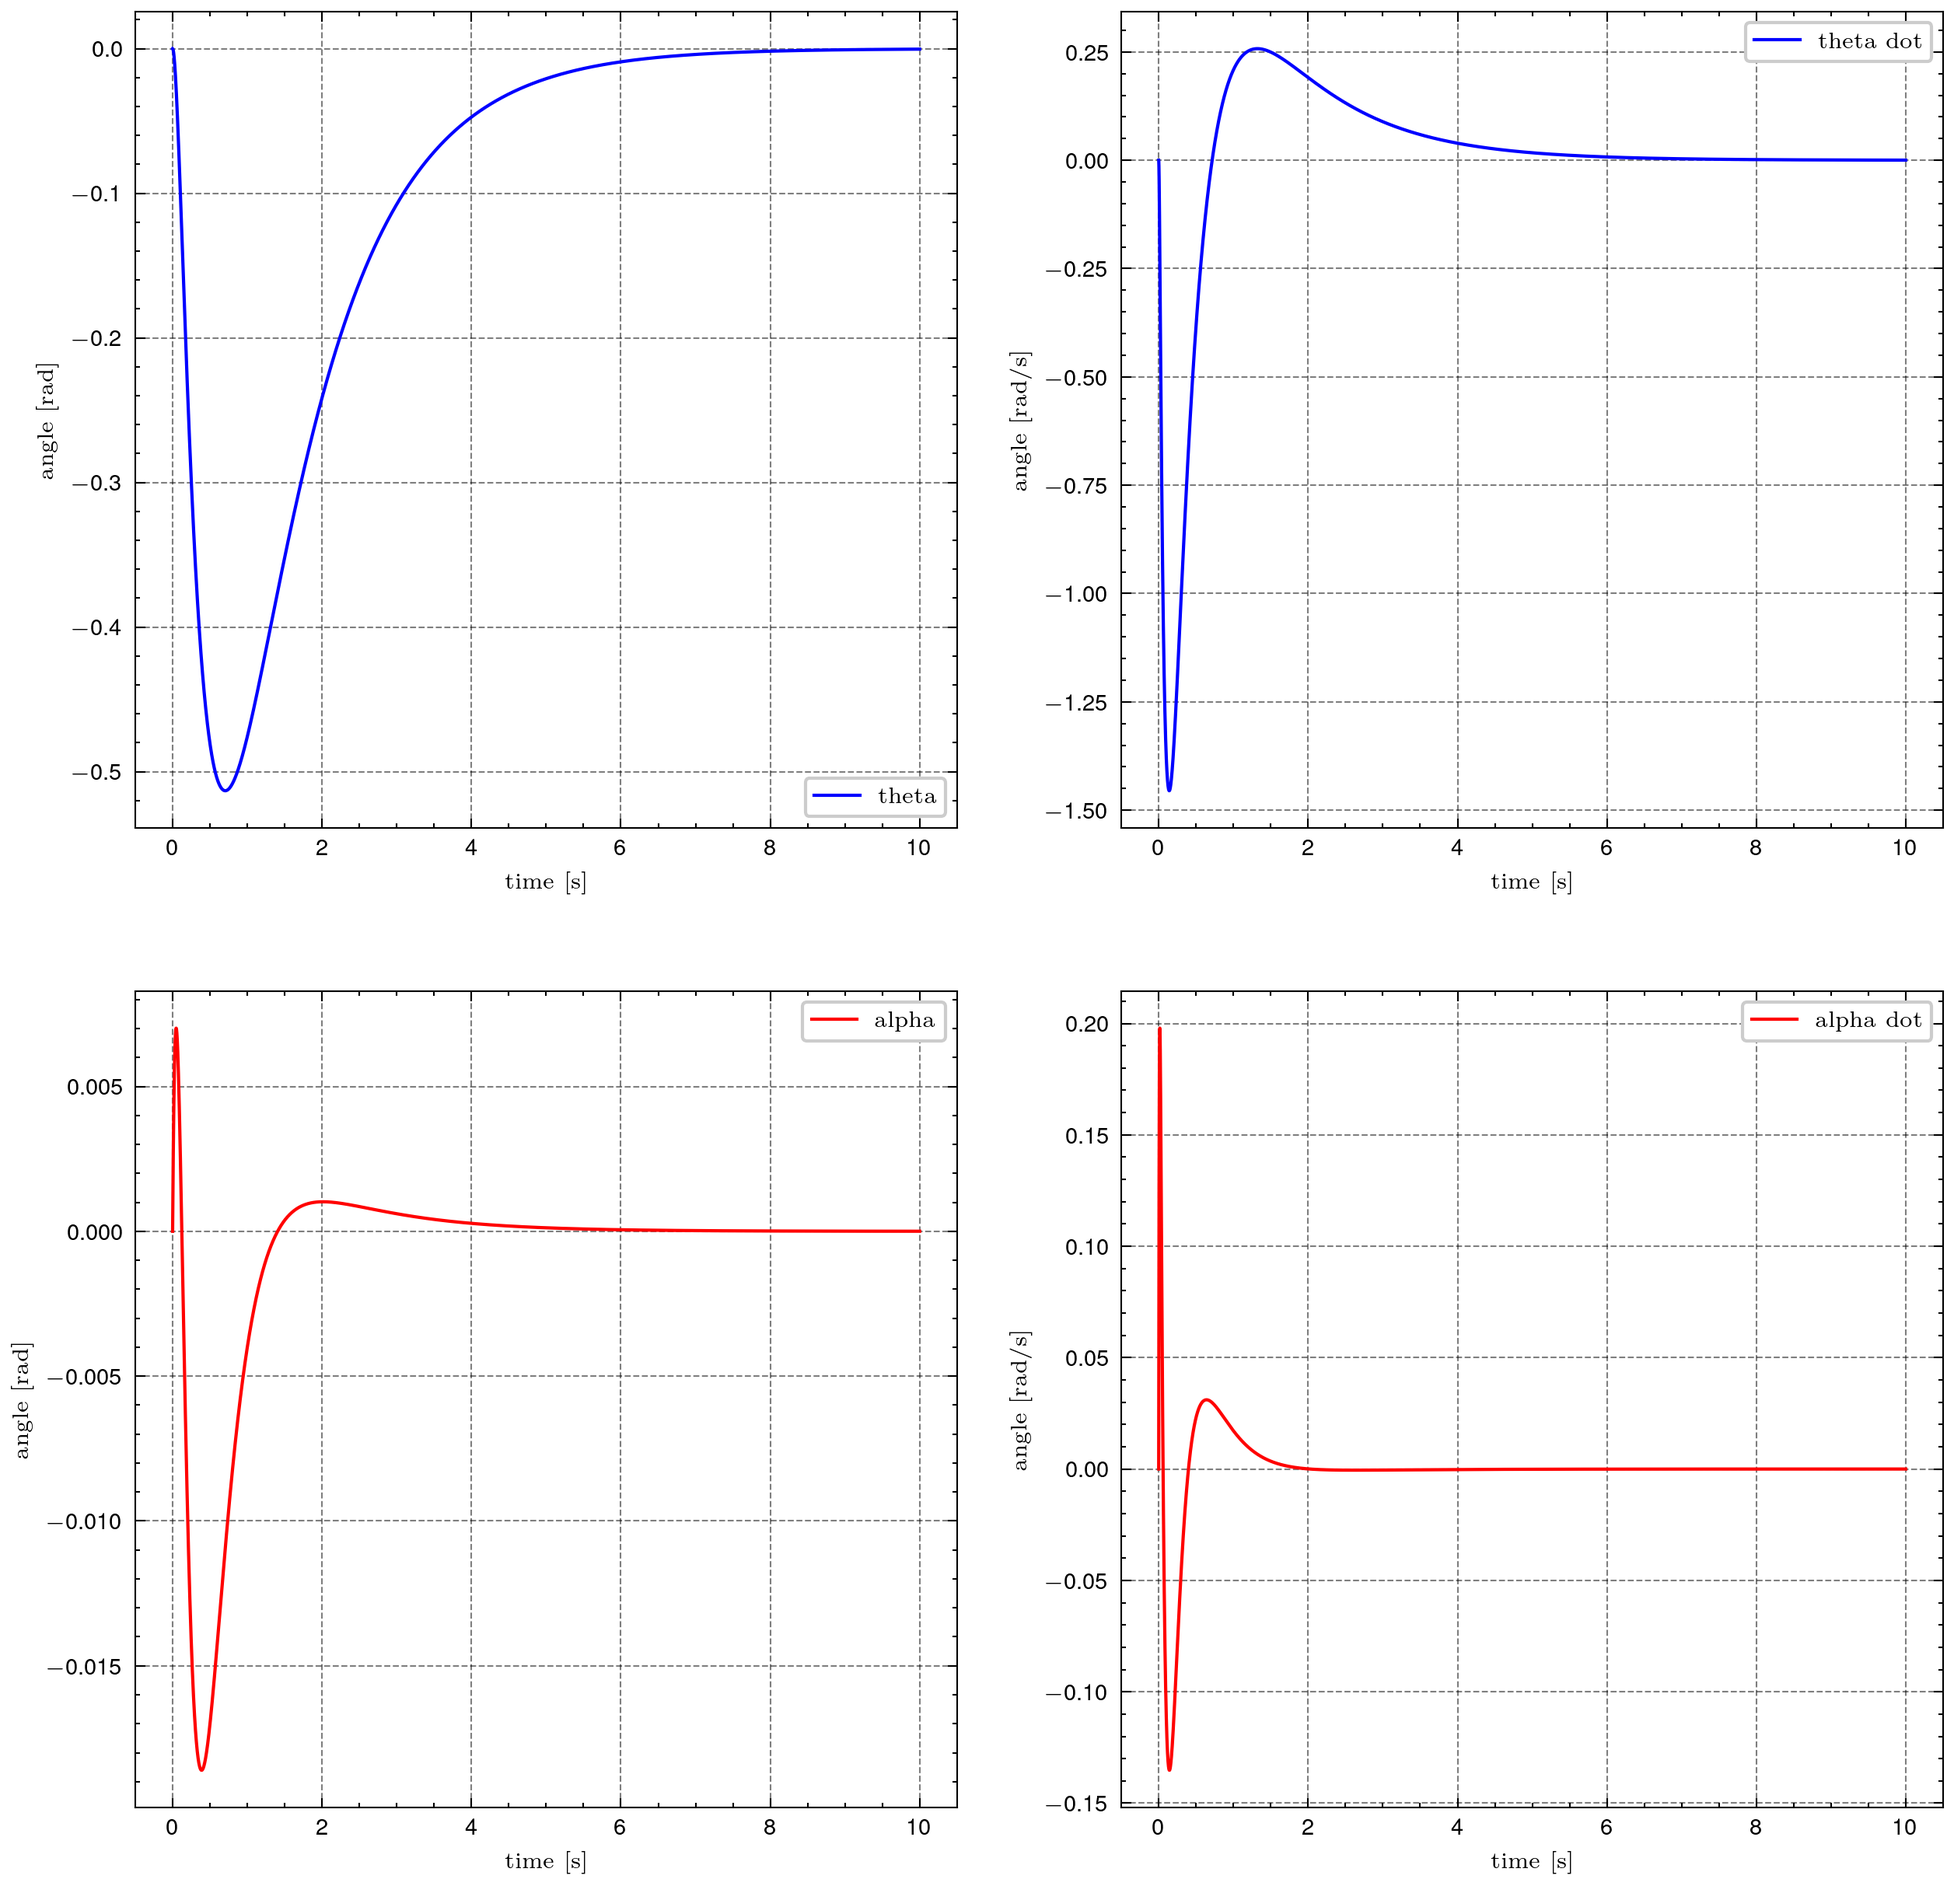
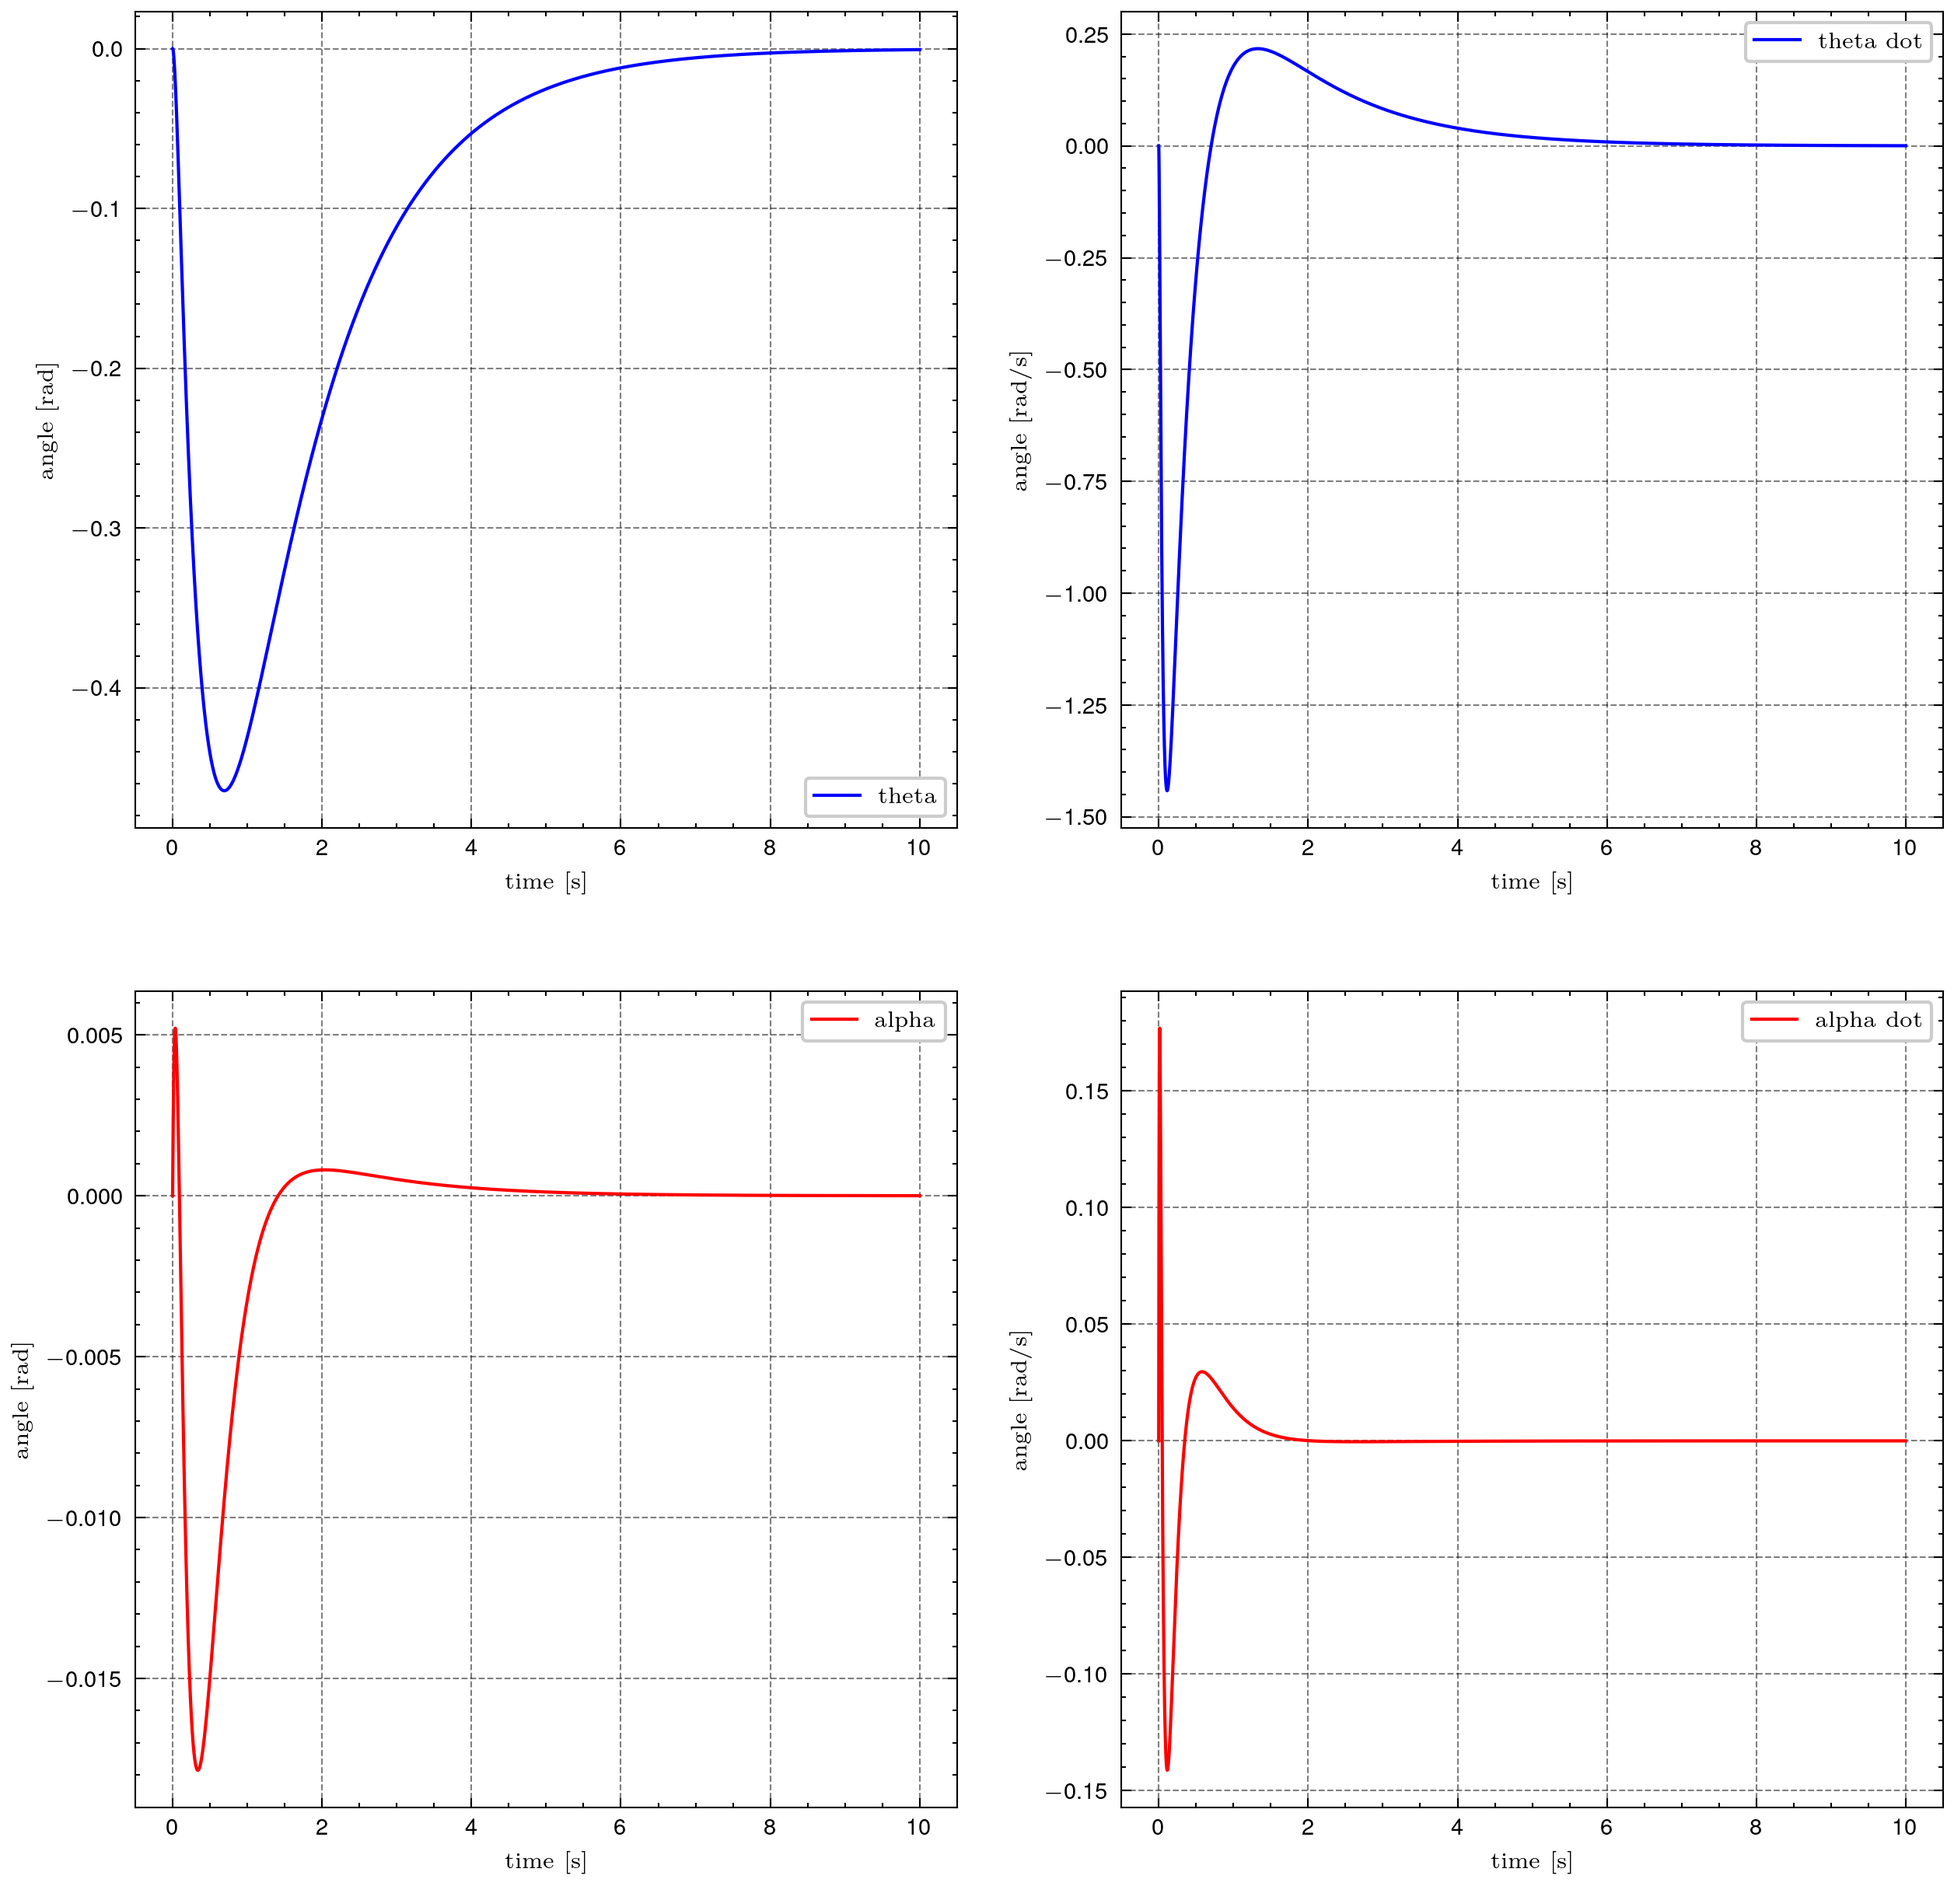
-.

diff --git a/main.py b/main.py
@@ -17,9 +17,9 @@ K = find_controller()
 
 initial_condition = np.array([
   [.0],
-  [np.radians(0)],
   [.0],
-  [np.radians(20)]
+  [.0],
+  [.0]
 ])
 
 xa = np.copy(initial_condition)
@@ -43,10 +43,10 @@ control_signal = np.zeros((samples, 1))
 for i in range(1, samples):
   u = K @ xa
 
-  if u[0] > 1:
-    u[0] = 1
-  elif u[0] < -1:
-    u[0] = -1
+  if u[0] > 10:
+    u[0] = 10
+  elif u[0] < -10:
+    u[0] = -10
 
   x = A @ xa + B @ u
   xa = x

diff --git a/controller.py b/controller.py
@@ -13,7 +13,7 @@ W = cvx.Variable((n, n), symmetric=True)
 S = cvx.Variable((m, m), diag=True)
 Z = cvx.Variable((m, n))
 L = cvx.Variable((m, n))
-rho = 1
+rho = 10
 
 # # LMI 1
 LMI1_11 = -W
